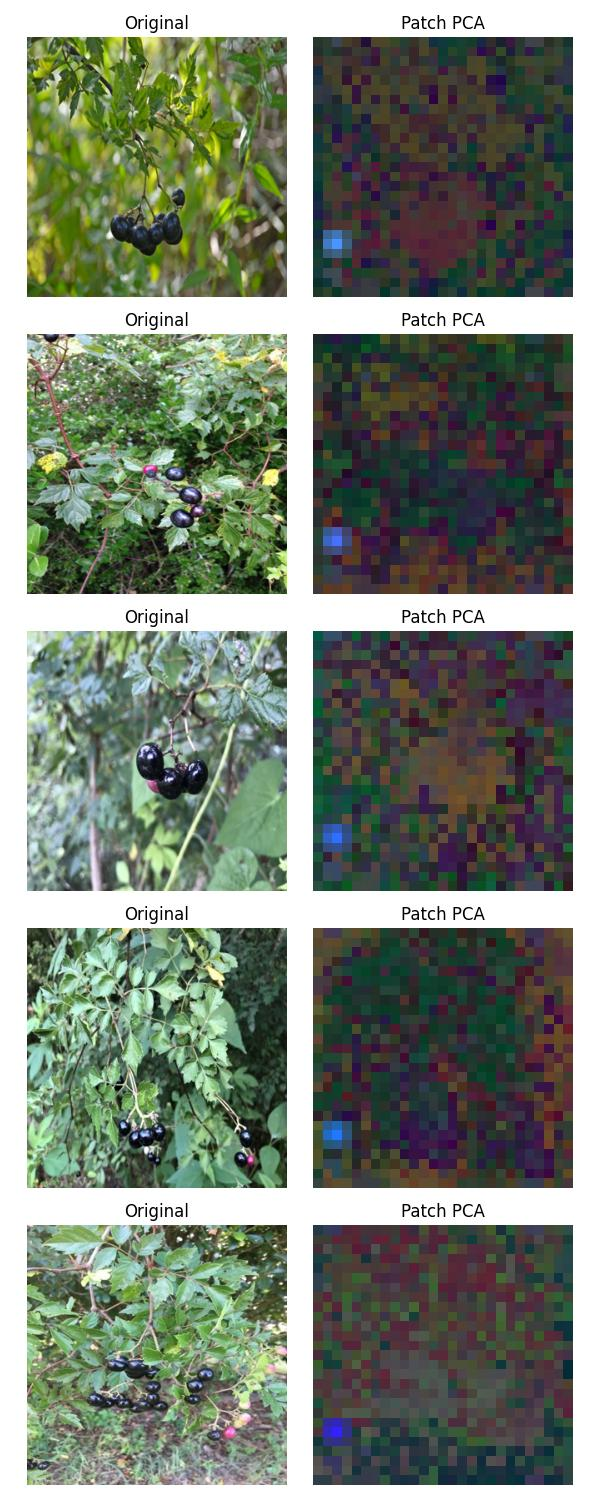
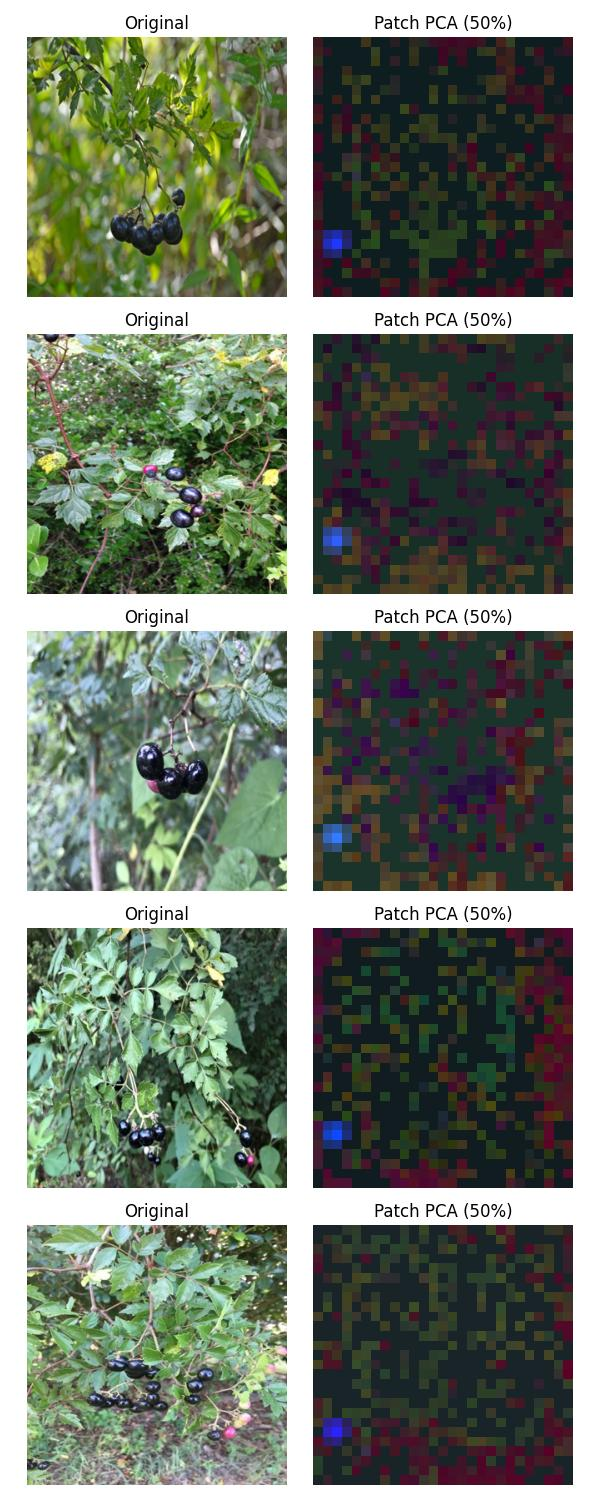
update

Changed region(s): [[0.51, 0.0, 0.96, 1.0]]

diff --git a/test_pca.py b/test_pca.py
@@ -1,21 +1,12 @@
+import os
+import torch
+import matplotlib.pyplot as plt
+import numpy as np
+from sklearn.decomposition import PCA
 from lvlm_models.llava_ import LLava
 from util import DataLoader
-import os
-import torch
-import os
-import torch
-import torchvision.transforms.functional as TF
-from sklearn.decomposition import PCA
-from torchvision.utils import save_image
-import matplotlib.pyplot as plt
 
 def save_patch_visualizations(patch_feats, retri_imgs, save_path="vis_patch_rgb/grid.jpg", topk_percent=50):
-    import os
-    import torch
-    import matplotlib.pyplot as plt
-    from sklearn.decomposition import PCA
-    import numpy as np
-
     os.makedirs(os.path.dirname(save_path), exist_ok=True)
 
     B, N, D = patch_feats.shape
@@ -23,7 +14,7 @@ def save_patch_visualizations(patch_feats, retri_imgs, save_path="vis_patch_rgb/
     fig, axs = plt.subplots(nrows=B, ncols=2, figsize=(6, 3 * B))
 
     if B == 1:
-        axs = [axs]
+        axs = [axs]  # Ensure 2D indexing
 
     for i in range(B):
         img = retri_imgs[i]
@@ -33,7 +24,7 @@ def save_patch_visualizations(patch_feats, retri_imgs, save_path="vis_patch_rgb/
 
         patch = patch_feats[i]  # (N, D)
 
-        # --- Bước lọc background bằng norm ---
+        # ---- Lọc background ----
         norm = patch.norm(dim=1)  # (N,)
         k = int(N * topk_percent / 100)
         topk_indices = torch.topk(norm, k).indices
@@ -42,7 +33,7 @@ def save_patch_visualizations(patch_feats, retri_imgs, save_path="vis_patch_rgb/
         patch_filtered = patch.clone()
         patch_filtered[~mask] = 0  # zero-out background
 
-        # --- PCA ---
+        # ---- PCA ----
         pca = PCA(n_components=3)
         patch_rgb = pca.fit_transform(patch_filtered.cpu().numpy())  # (N, 3)
         patch_rgb = patch_rgb.reshape(side, side, 3)
@@ -57,27 +48,23 @@ def save_patch_visualizations(patch_feats, retri_imgs, save_path="vis_patch_rgb/
     plt.close()
 
 
-# data
+# --- Load data ---
 result_clean_dir = "result_usingquery=0_clip"
 loader = DataLoader(retri_dir=result_clean_dir)
 sample_path = "run.txt"
+
 with open(sample_path, "r") as f:
     sample_ids = [int(line.strip()) for line in f]
 
-# model
-instruction = "Answer the given question based only on the visual content of the images. Do not guess or use outside knowledge. Just return the answer and nothing else."
+# --- Load model ---
 model = LLava(
     pretrained="llava-next-interleave-qwen-7b",
     model_name="llava_qwen",
 )
 
-image_token = "<image>"
-
-# sample
-sample_index = 10
-question, answer, query, gt_basenames, retri_basenames, retri_imgs, sims = loader.take_retri_data(sample_ids[sample_index])
-patch_feats = model.extract_patch_features(retri_imgs)
-print(patch_feats.shape)  # Should print the shape of the patch features tensor
-
-save_patch_visualizations(patch_feats, retri_imgs)
-
+# --- Visualize for each sample ---
+for i in sample_ids:
+    question, answer, query, gt_basenames, retri_basenames, retri_imgs, sims = loader.take_retri_data(i)
+    patch_feats = model.extract_patch_features(retri_imgs)
+    save_path = f"vis_patch_rgb/sample_{i}.jpg"
+    save_patch_visualizations(patch_feats, retri_imgs, save_path=save_path, topk_percent=50)
